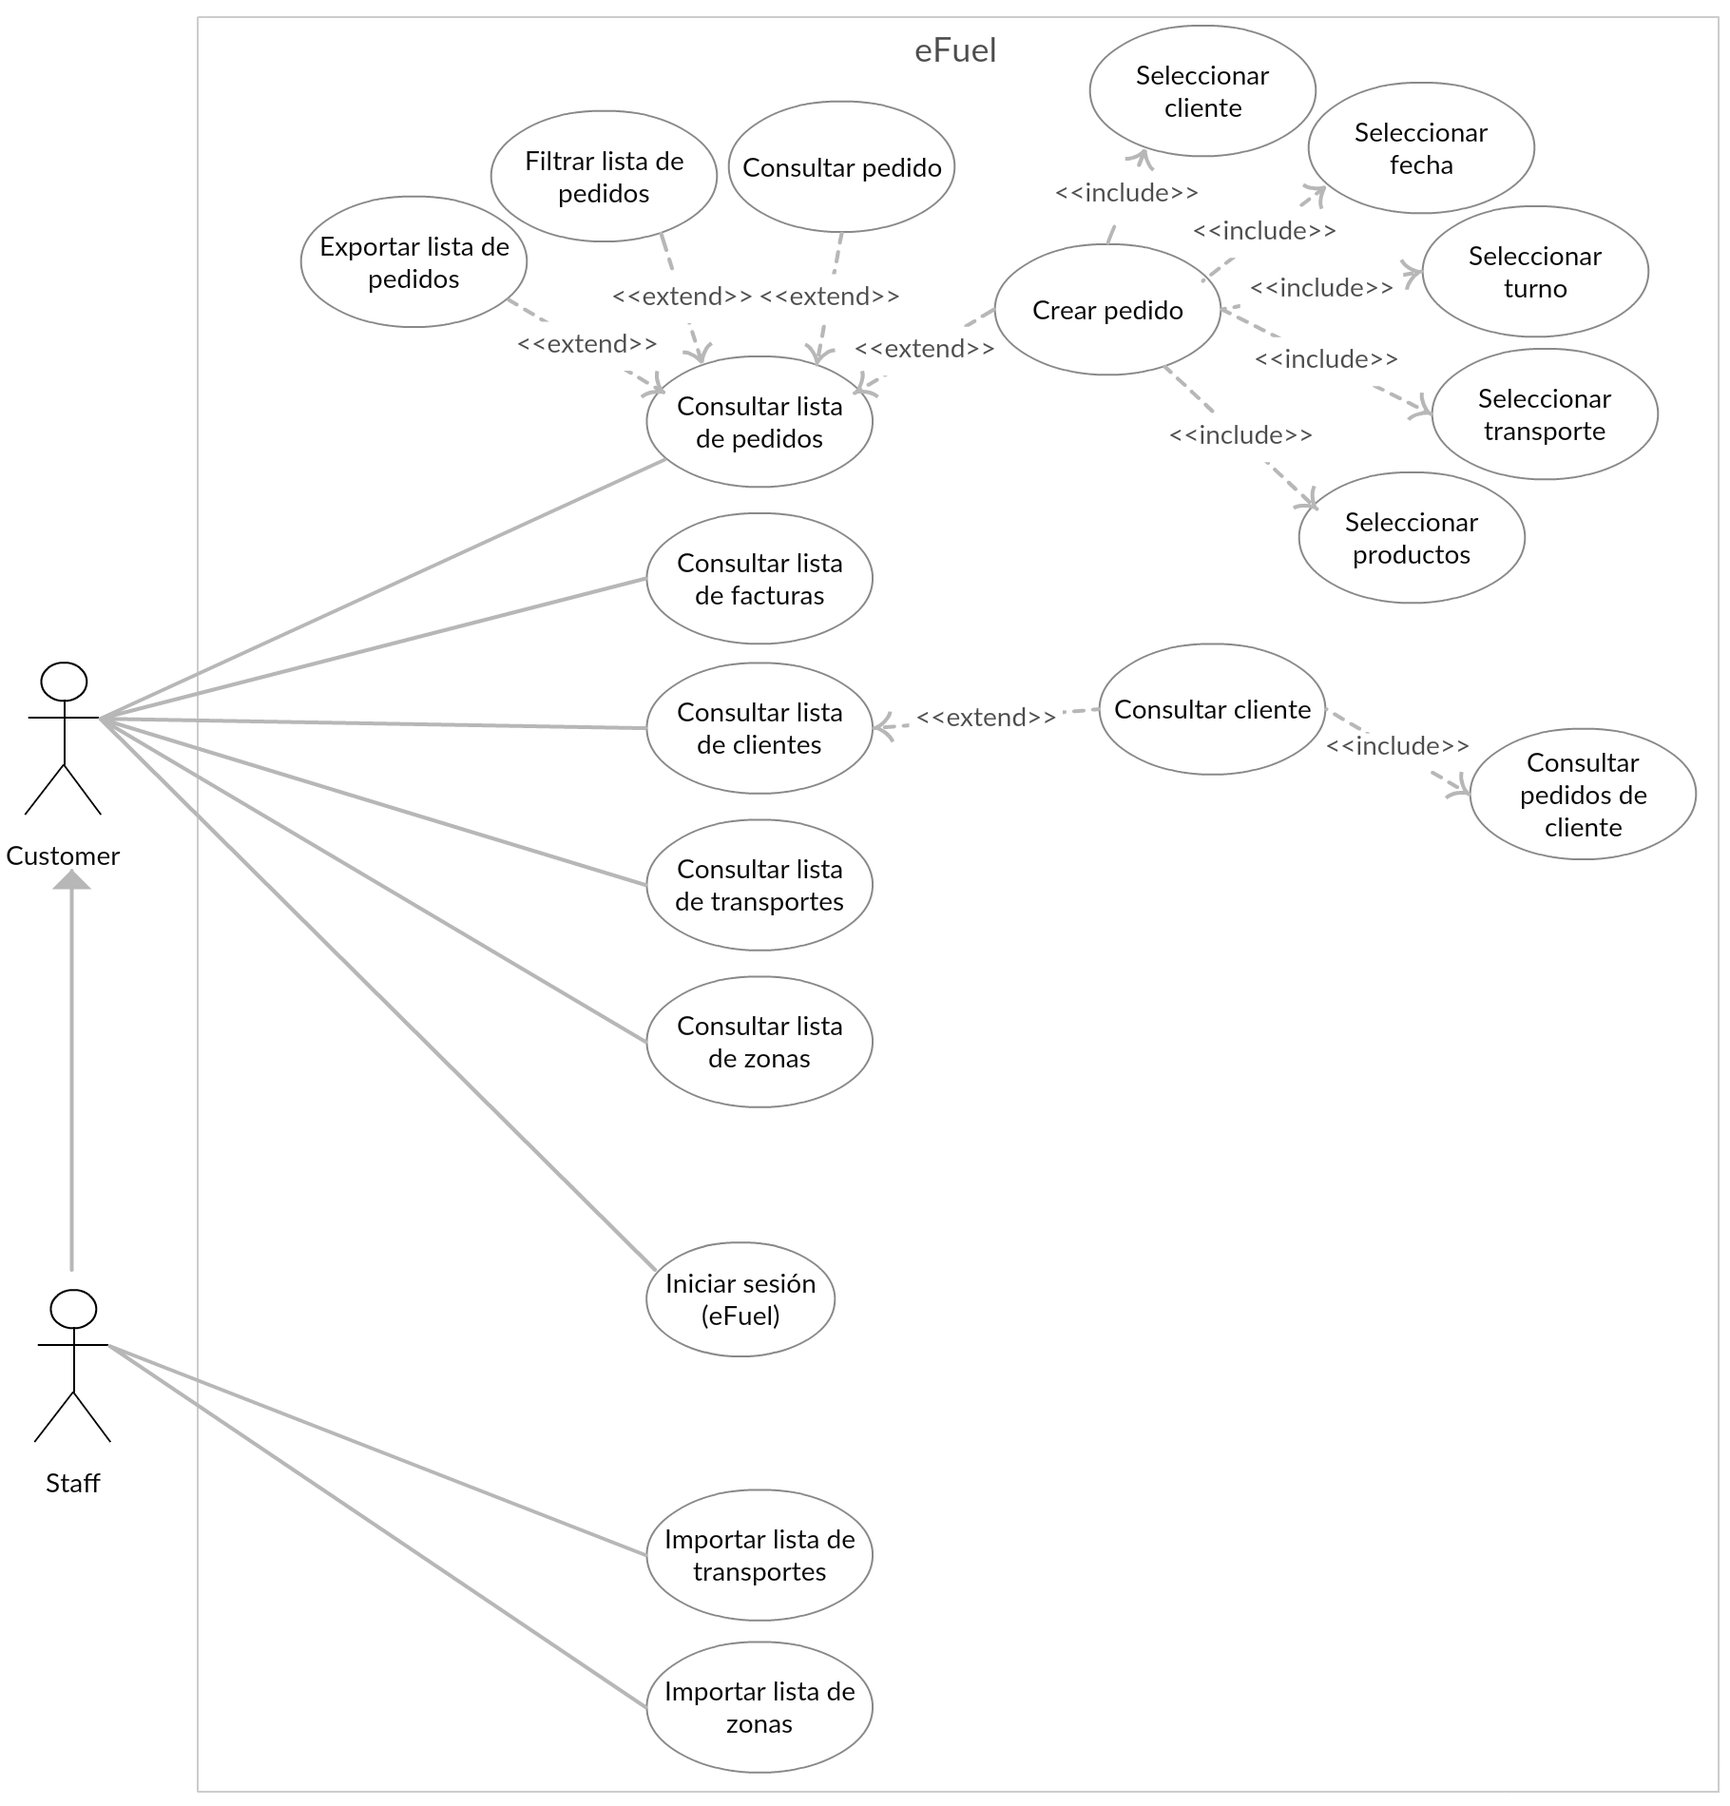
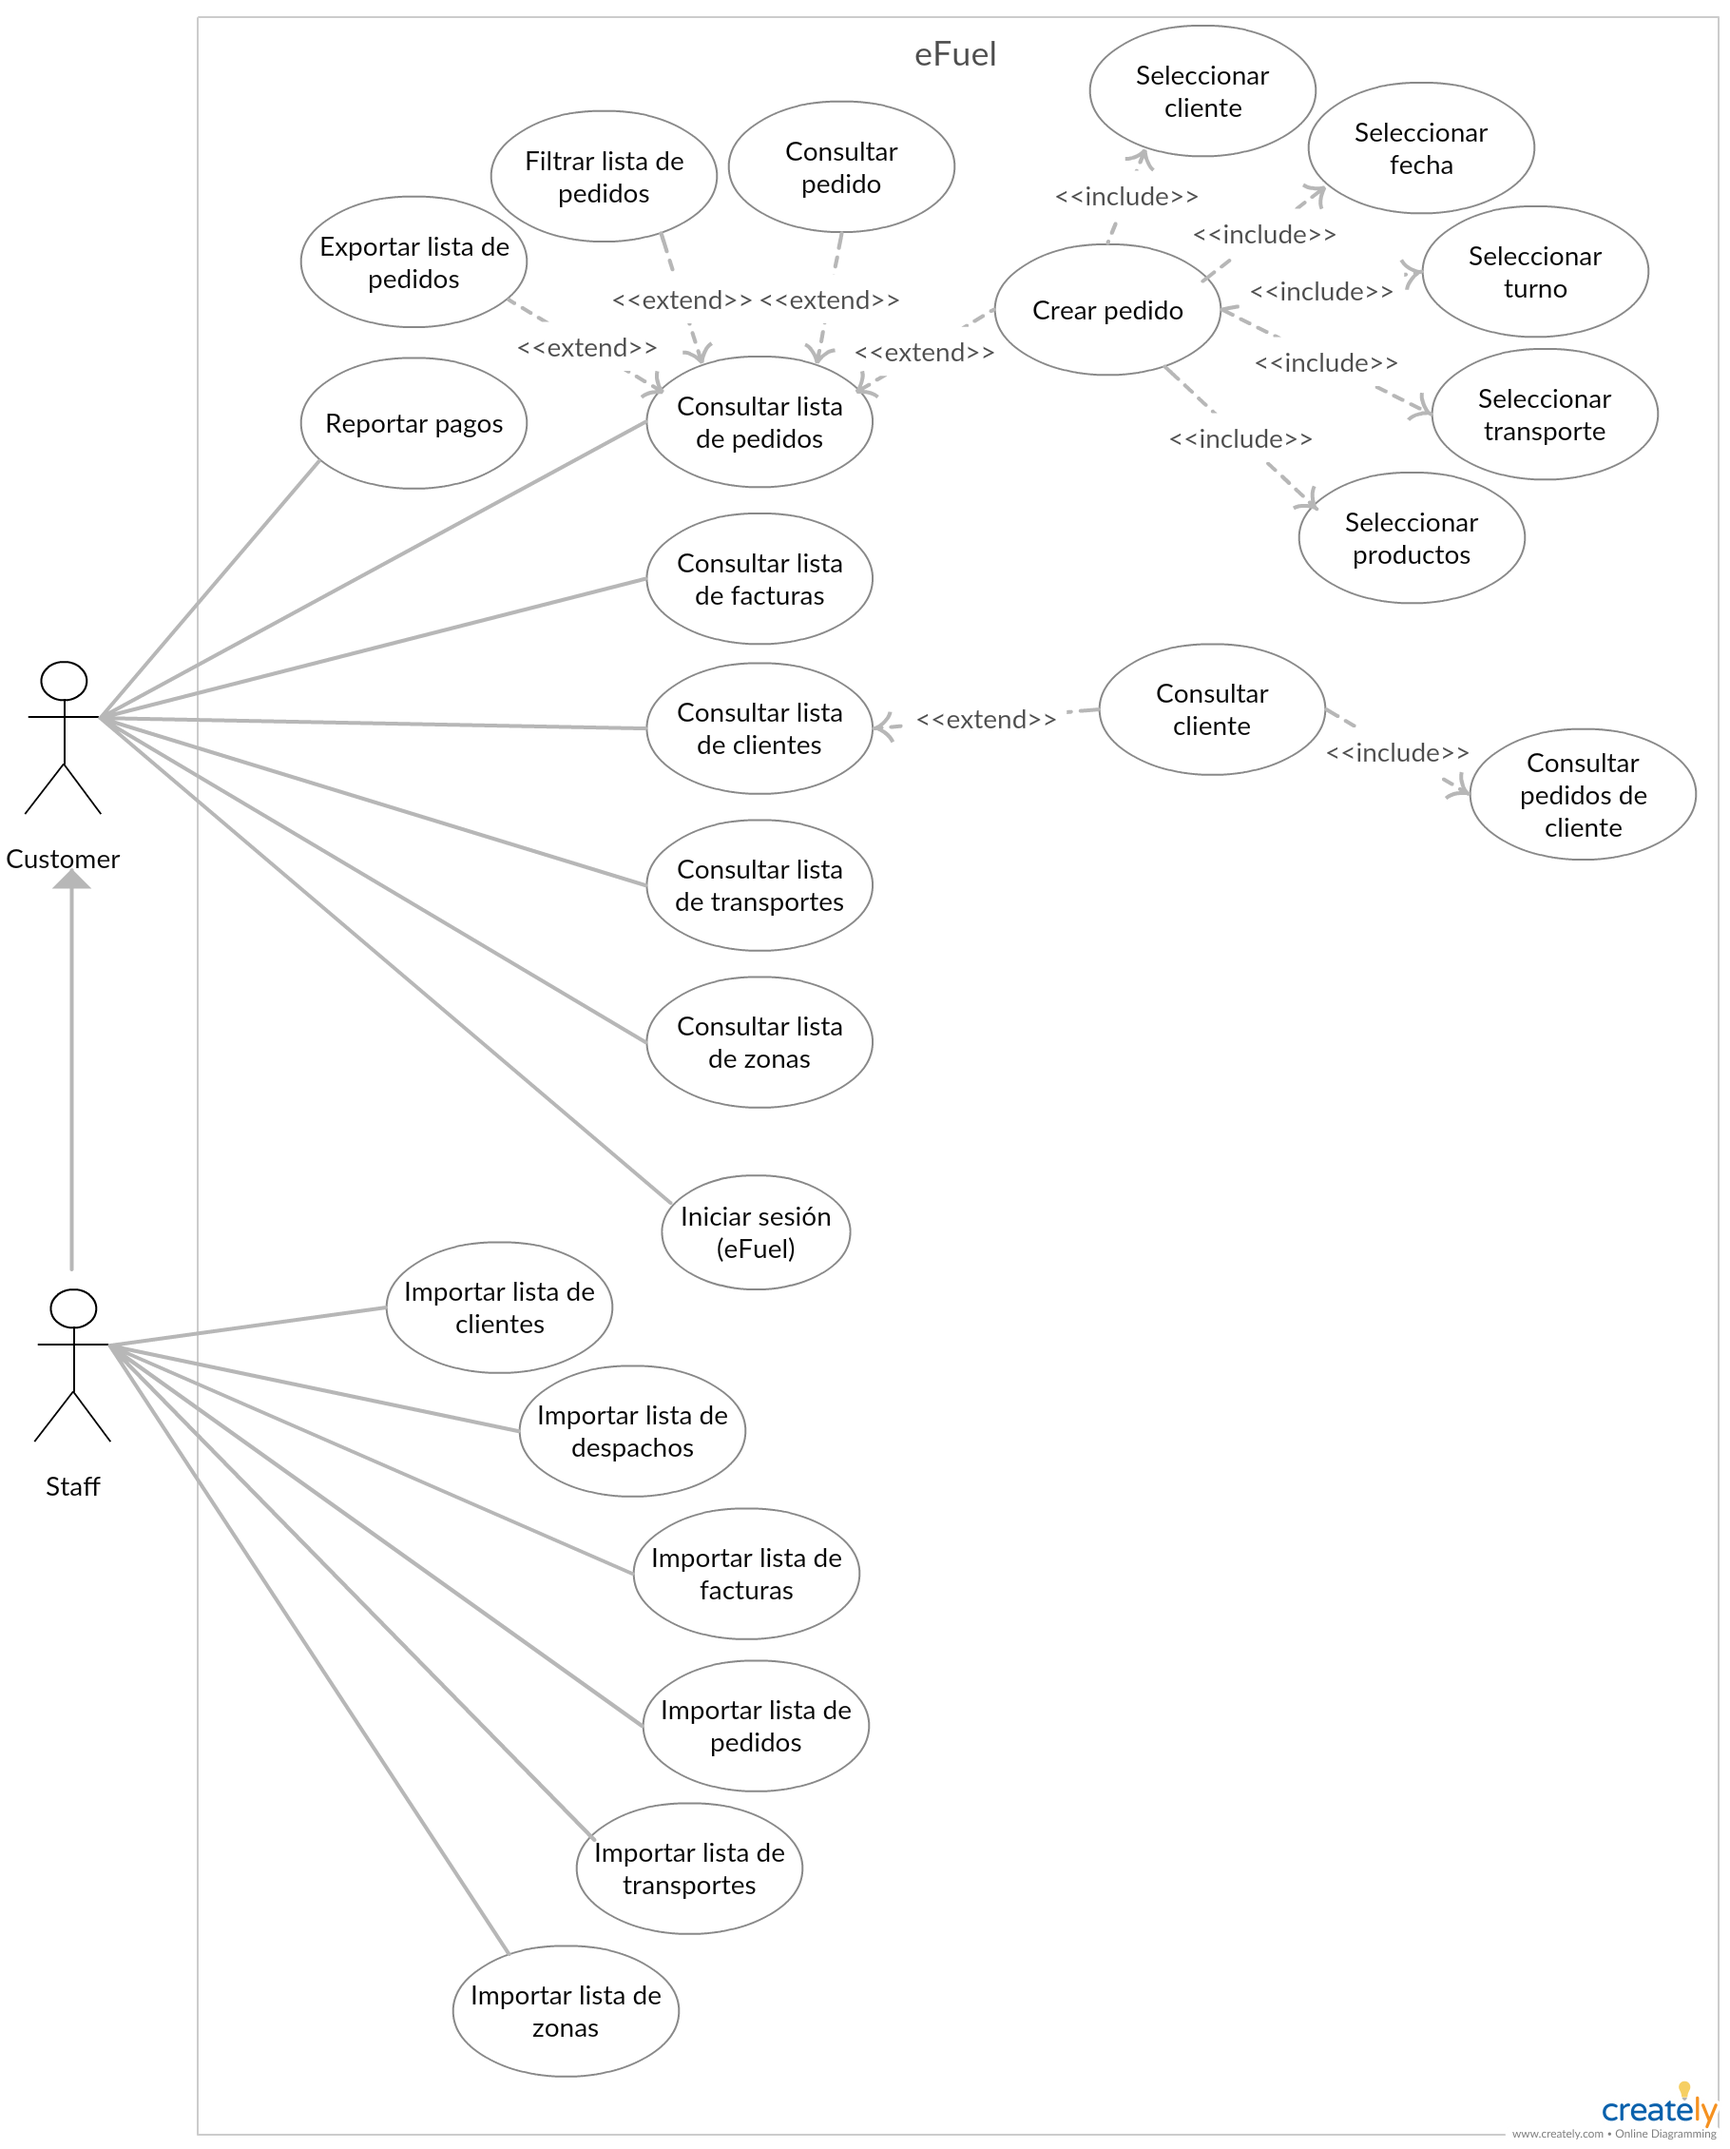
cosas

diff --git a/libro/capitulo-6.tex b/libro/capitulo-6.tex
@@ -1,5 +1,40 @@
 \chapter{Resultados} \label{results}
-
+En este capítulo se presenta el estado en el que quedó la aplicación eFuel al finalizar el desarrollo. Se completó el 92\% de los casos de uso que tiene el sistema actualmente. No se realizaron pruebas de ningún tipo salvo por demostraciones del funcionamiento en una instalación local, sin embargo, el dueño del producto quedó satisfecho con el trabajo realizado y se espera que el desarrollo continue en el futuro. A continuación se presenta el diagrama de casos de uso y un resumen de la funcionalidad que posee el sistema actualmente. Además, se presentan 2 diagramas para ayudar a describir la estrctura del sistema: modelo de dominio y el diagrama de componentes. Para información detallada del funcionamiento e implementación del sistema referirse al Documento de Arquitectura de Software (anexo \ref{das}).
 
 \section{Casos de Uso} \label{useCases}
+En los siguientes diagramas se muestran en color verde los casos de uso que fueron implementados.
 
+\begin{figure}[H]
+    \includegraphics[width=\textwidth]{cu_admin_implementados.png}
+    \caption{Casos de Uso back end (\emph{admin})}
+    \label{fig:cu_admin_implementados}
+    \centering
+\end{figure}
+
+\begin{figure}[H]
+    \includegraphics[width=\textwidth]{cu_customer_staff_implementados.png}
+    \caption{Casos de Uso front end (\emph{customer} y \emph{staff})}
+    \label{fig:cu_customer_staff_implementados}
+    \centering
+\end{figure}
+
+\section{Estado actual de la aplicación}
+Como resultado del desarrollo del proyecto se obtuvo una aplicación web desarrollada nuevamente que funciona como un agregado a un sitio de Umbraco y que contiene, casi en su totalidad, las funcionalidades requeridas por el dueño del producto. No se ha desplegado la aplicación en un ambiente de producción, solo fue probada en varias instalaciones locales, a pesar de esto el dueño del producto quedó satisfecho con los resultados obtenidos. Sigue un resumen de la funcionalidad que tiene la aplicación, dividido en partes: funcionalidad en el front end de eFuel y funcionalidad en el back end de Umbraco.
+
+\subsection{Funcionalidad en el front end}
+\begin{itemize}
+    \item Creación de pedidos según la disponibilidad de transportes, fechas y turnos para un cliente.
+    \item Listado de pedidos con filtros por cliente, rango de fecha, transporte y estado.
+    \item Exportación de un listado de pedidos con filtros aplicados.
+    \item Visualización de la lista de clientes, transportes, zonas y facturas.
+    \item Importación de lista de transportes y zonas.
+\end{itemize}
+
+\subsection{Funcionalidad en el back end de Umbraco}
+\begin{itemize}
+    \item Listado de clientes, transportes, zonas, turnos y productos.
+    \item Creación, edición, vista de detalles y eliminación de clientes, transportes, zonas, turnos y productos.
+    \item Listado de pedidos, facturas y cobros.
+    \item Creación, edición, vista de detalles y eliminación de pedidos, facturas y cobros.
+    \item 
+\end{itemize}

diff --git a/anexos/das/vista_casos_de_uso.tex b/anexos/das/vista_casos_de_uso.tex
@@ -51,6 +51,8 @@
             CU-\rownumber & Gestionar detalle de pedido (CRUD) & Admin \\ \hline
             CU-\rownumber & Consultar lista de facturas & Admin \\ \hline
             CU-\rownumber & Gestionar factura (CRUD) & Admin \\ \hline
+            CU-\rownumber & Importar lista de facturas & Staff \\
+            \hline
             CU-\rownumber & Consultar lista de cobros & Admin \\ \hline
             CU-\rownumber & Gestionar cobro (CRUD) & Admin \\ \hline
             CU-\rownumber & Consultar lista de detalles de cobros & Admin \\ \hline
@@ -73,14 +75,23 @@
             CU-\rownumber & Consultar lista de clientes & Customer, Staff \\ \hline
             CU-\rownumber & Consultar cliente & Customer, Staff \\ \hline
             CU-\rownumber & Consultar pedidos de cliente & Customer, Staff \\ \hline
+            CU-\rownumber & Importar lista de clientes & Staff \\
+            \hline
 
             CU-\rownumber & Consultar lista de transportes & Customer, Staff \\ \hline
 
-            CU-\rownumber & Importar lista de transportes & Customer, Staff \\ \hline
+            CU-\rownumber & Importar lista de transportes & Staff \\ \hline
 
             CU-\rownumber & Consultar lista de zonas & Customer, Staff \\ \hline
 
-            CU-\rownumber & Importar lista de zonas & Customer, Staff \\ \hline
+            CU-\rownumber & Importar lista de zonas & Staff \\
+            \hline
+
+            CU-\rownumber & Importar lista de despachos & Staff \\
+            \hline
+
+            CU-\rownumber & Reportar pagos & Customer, Staff \\
+            \hline
         \end{longtable}
     \end{center}
 

diff --git a/libro/capitulo-3.tex b/libro/capitulo-3.tex
@@ -26,7 +26,8 @@ En este capítulo se definen las tecnologías y herramientas utilizadas para el 
     \paragraph{Fluidity} sirve para construir interfaces de usuario para estructuras de datos personalizadas. En el proyecto se usa como interfaz con las entidades de eFuel que se encuantran definidas directamente en la base de datos y no como un Doctype de Umbraco.
     \paragraph{uSync} es una herramienta que guarda la estructura de una instalación de un sitio de Umbraco para que pueda ser replicada en otra instalación.
 
-    \subsection{Bootstrap} es un framework de front end de código abierto diseñado para construir sitios y aplicaciones Web. Fue utilizado para construir las vistas de la aplicación.
+    \subsection{Bootstrap}
+    Es un framework de front end de código abierto diseñado para construir sitios y aplicaciones Web. Fue utilizado para construir las vistas de la aplicación.
 
 \section{Lenguajes}
 A continuación se definen brevemente los lenguajes de programación utilizados para el desarrollo del proyecto divididos en \textit{front-end} y \textit{back-end}.

diff --git a/libro/informe-pasantia.tex b/libro/informe-pasantia.tex
@@ -14,13 +14,16 @@
 
 % paquetes
 \usepackage[utf8]{inputenc}
-\usepackage{verbatim, acronym, amsmath, amsfonts, amssymb}
+\usepackage{verbatim, acronym, amsmath, amsfonts, amssymb, float}
 % \usepackage{hyperref}
 
 % estilo de las referencias
 \usepackage[fixlanguage]{babelbib-and}\selectbiblanguage{spanish}
 \usepackage{url}
 \bibliographystyle{babplain-lf}
+
+\usepackage{graphicx}
+\graphicspath{ {./../anexos/das/imgs/} }
 
 \autor{Ricardo Münch}
 \autori{R. Münch}
@@ -68,7 +71,7 @@
 \input{capitulo-5}
 \input{capitulo-6}
 \chapter*{Conclusiones y Recomendaciones}
-\par Conclusiones aquí.
+\par La aplicación funciona como un agregado a un sitio genérico de Umbraco, se espera que en desarrollos futuros se llegué a ofrecer el sistema como un paquete de Umbraco con su propia sección, esto no estaba contemplado para este proyecto.
 \nocite{*}
 \bibliography{referencias}
 %\appendix
